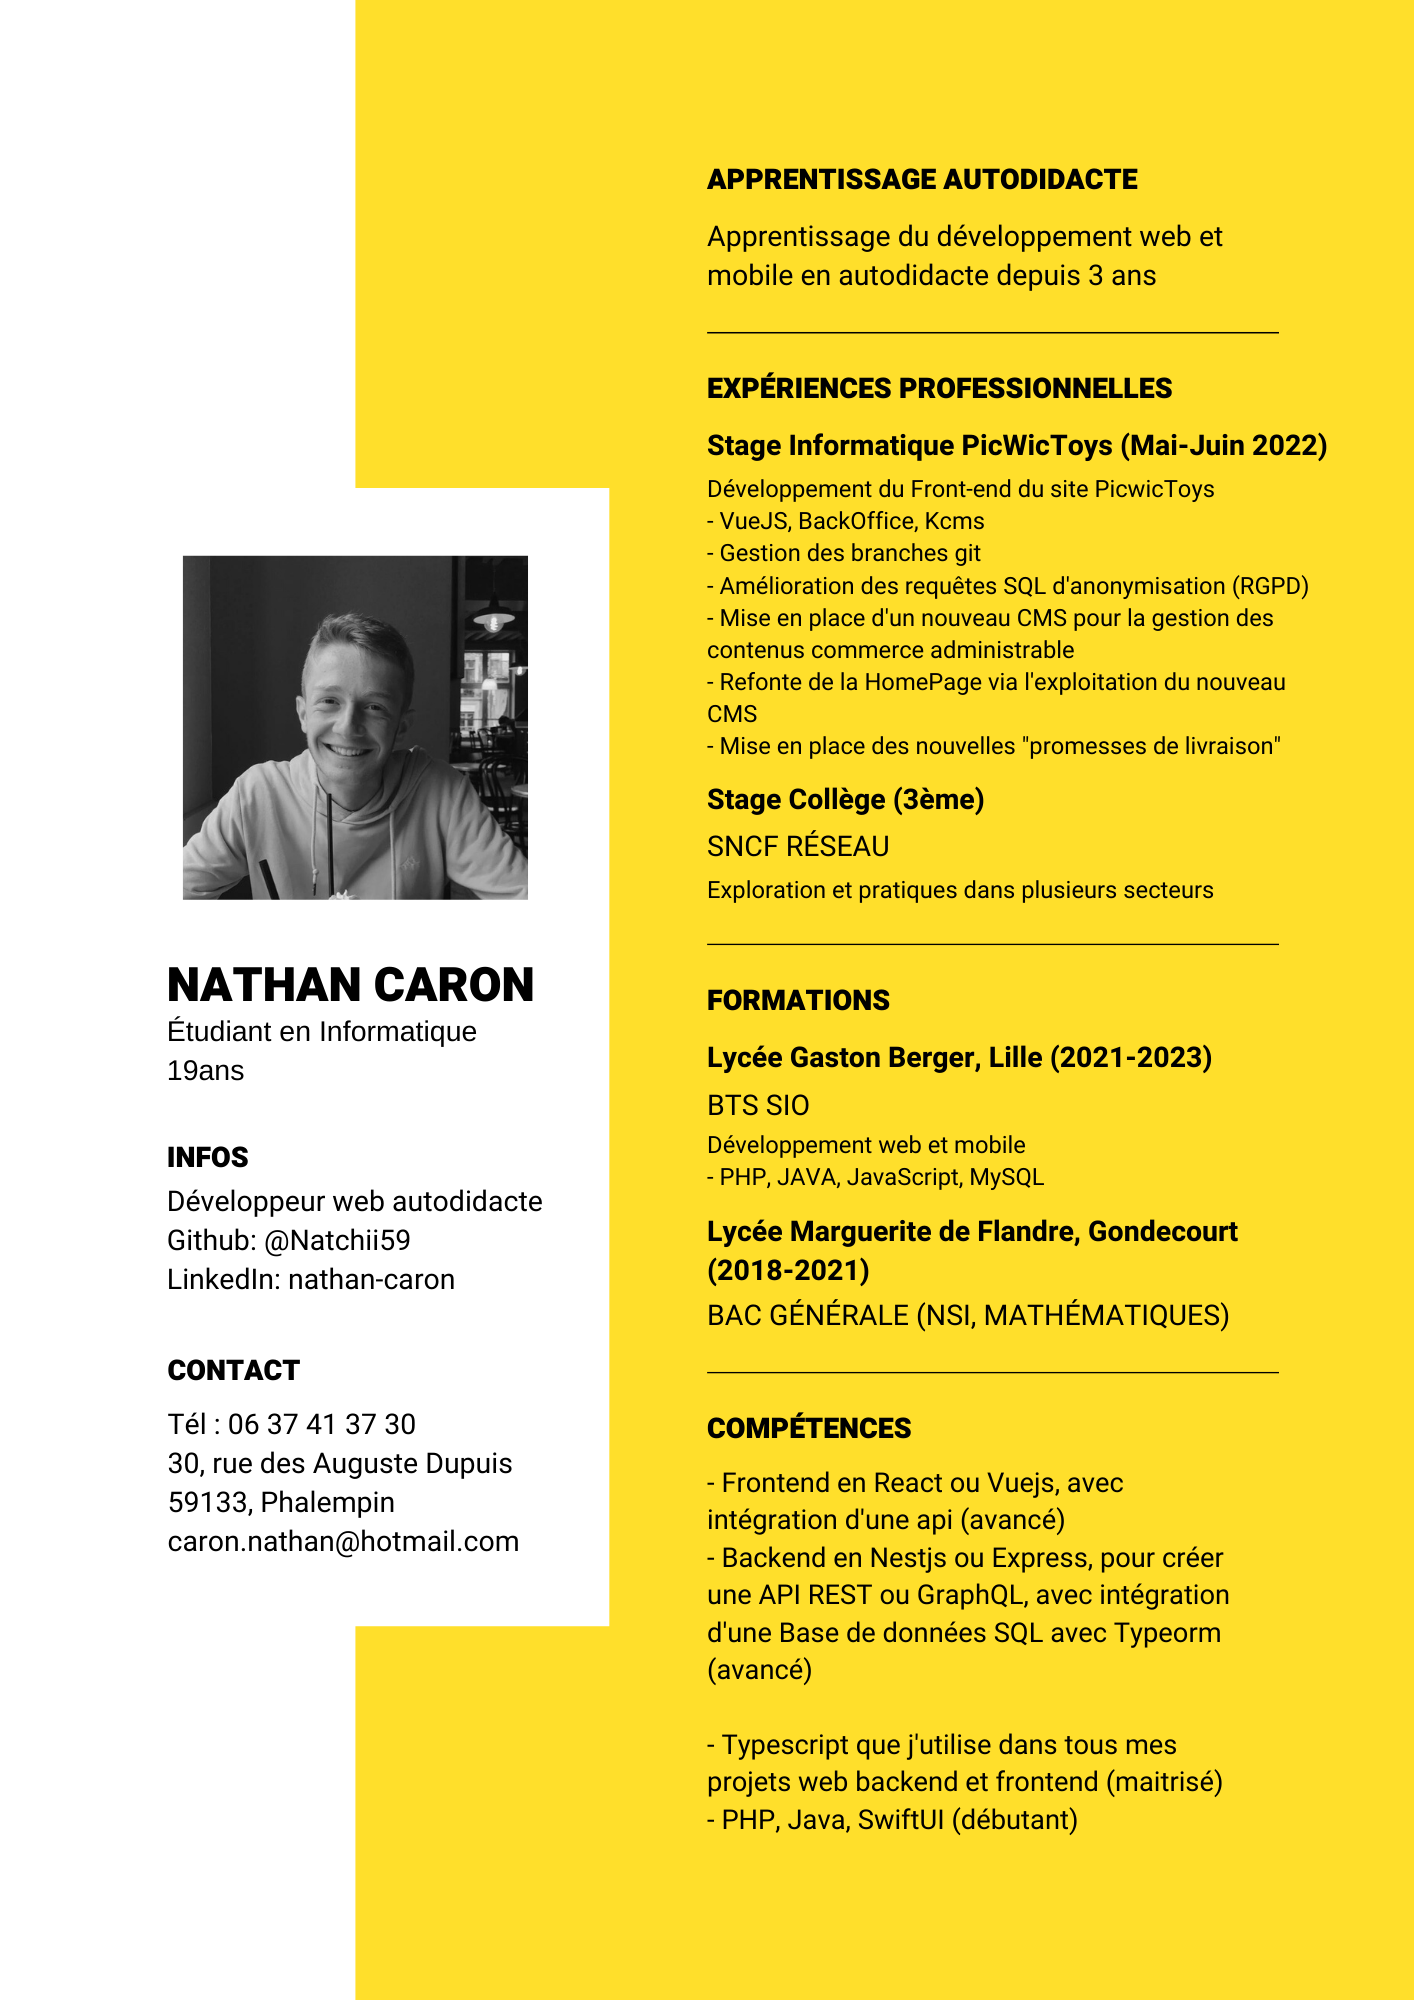
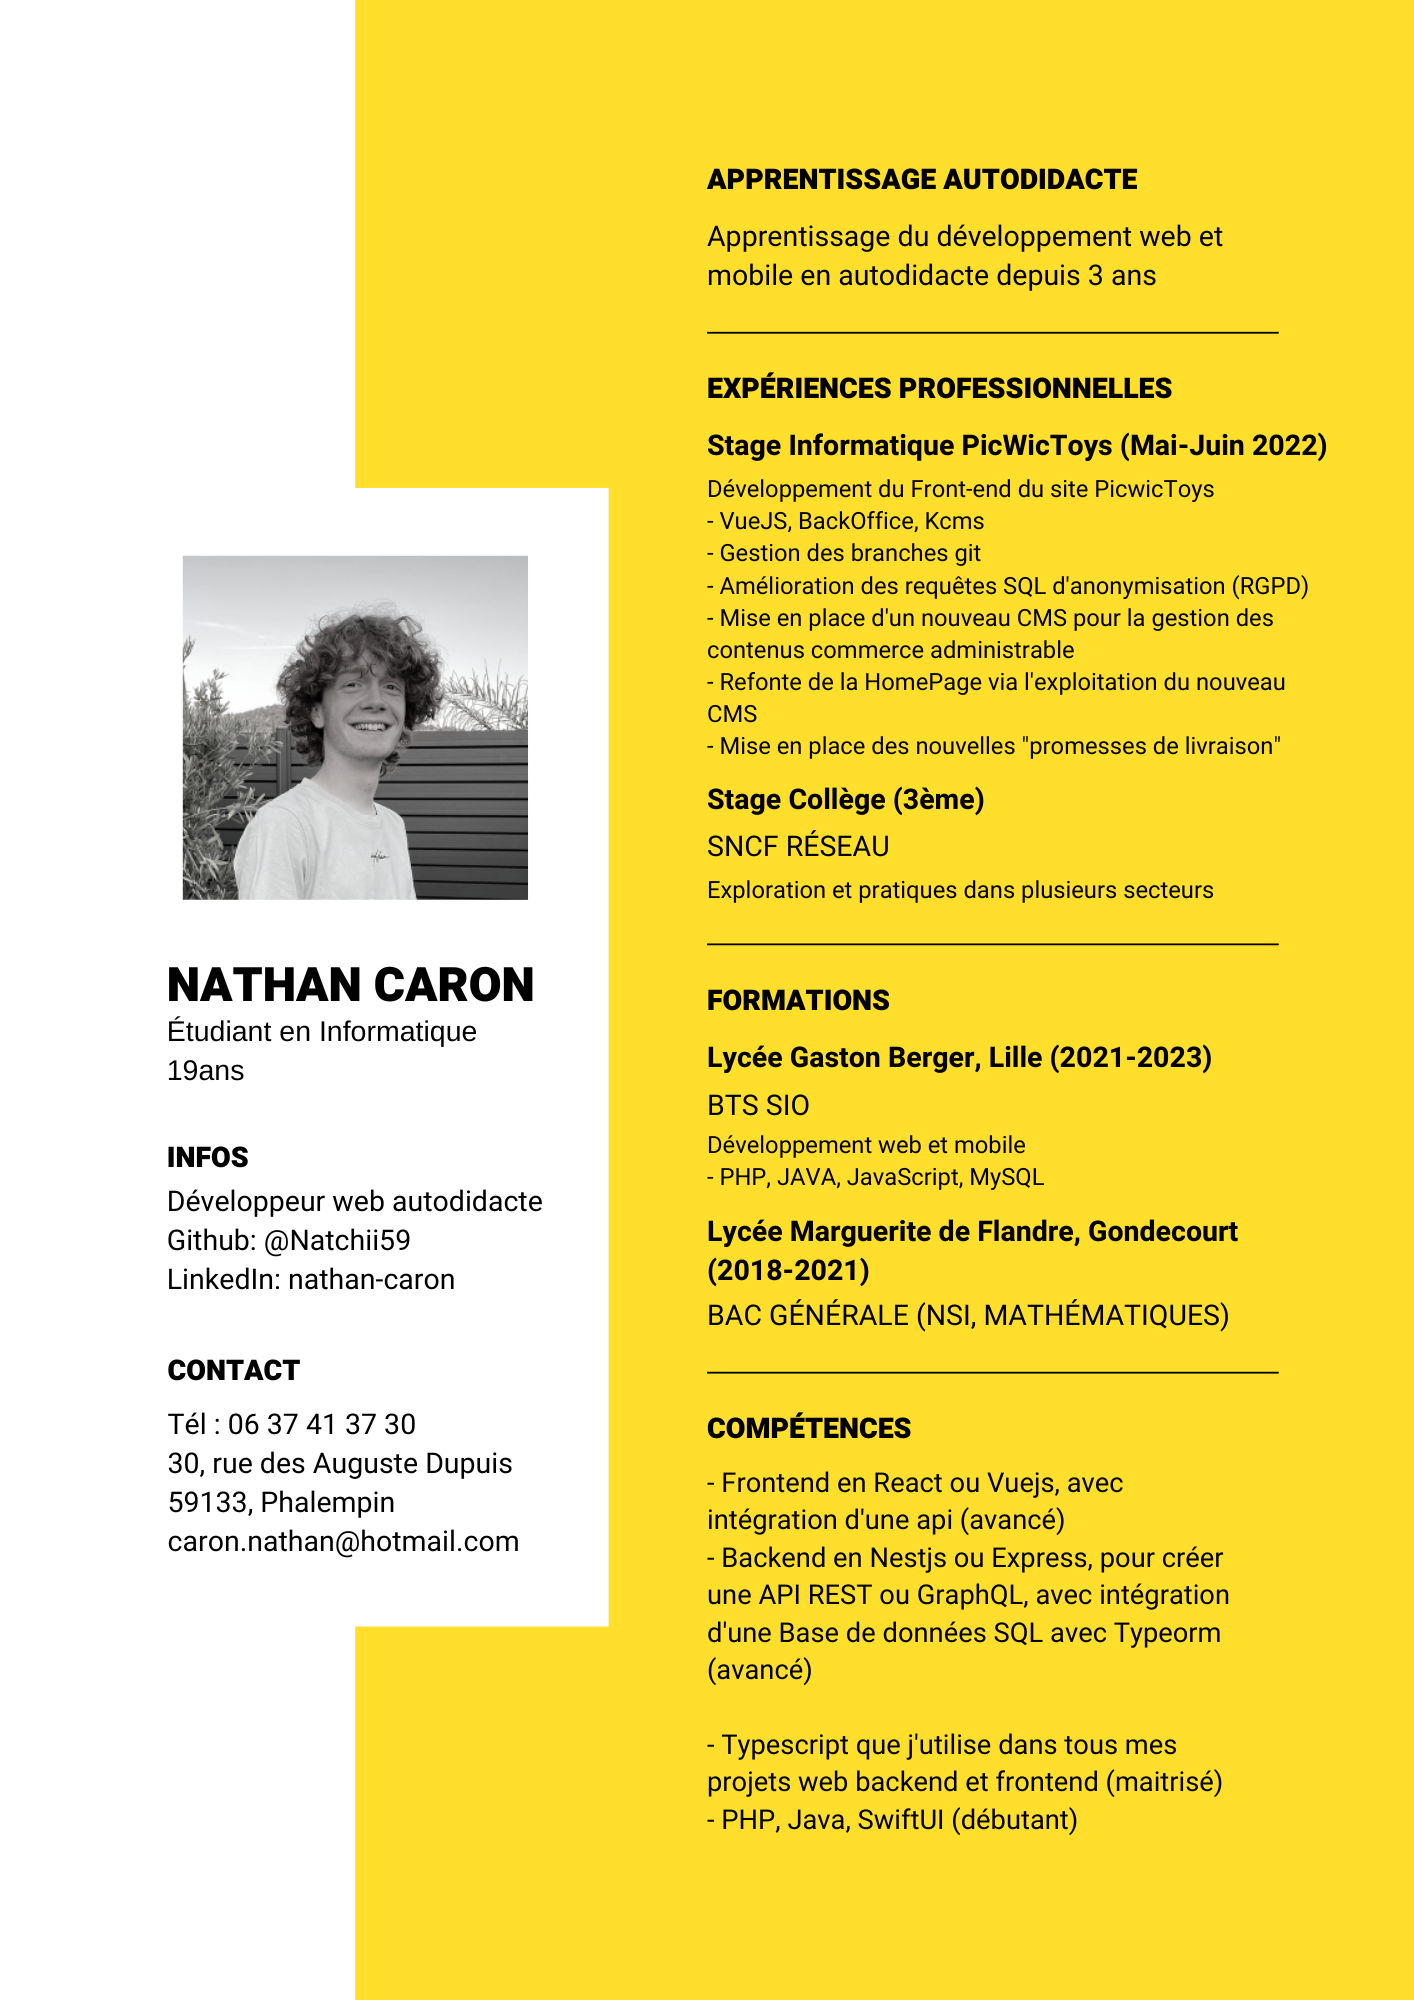
Update profile picture

Changed region(s): [[0.1245, 0.279, 0.3734, 0.465]]

diff --git a/src/pages/Home/style.tsx b/src/pages/Home/style.tsx
@@ -38,16 +38,12 @@ export const HomeTitle = styled.h1`
 
 export const HomeProfilePicture = styled.img`
   width: 100%;
-  max-width: 35rem;
-  max-height: 35rem;
+  object-fit: cover;
+  max-width: 30rem;
   filter: grayscale(1);
   border-radius: 40rem;
   user-select: none;
-
-  @media screen and (max-width: 1000px) {
-    max-width: 30rem;
-    max-height: 30rem;
-  }
+  margin-bottom: 7rem;
 `;
 
 export const HomeContainer2 = styled.div`
